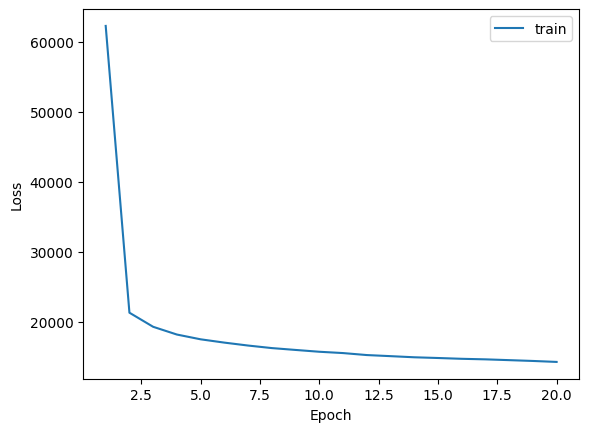
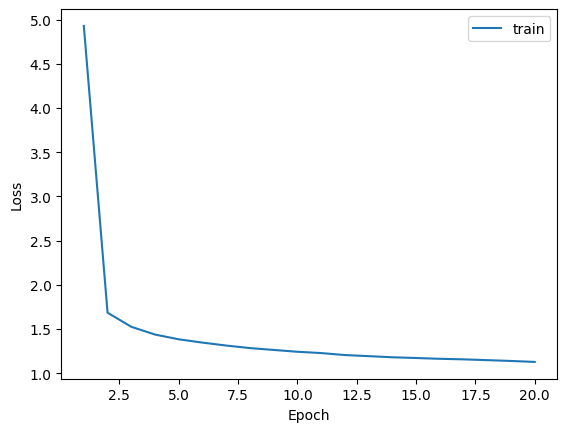
Mean loss on Q1.3
Instead of returning the whole sum, the method returns the average sum of the loss as said by the teacher in piazza

diff --git a/hw1/hw1-q1.py b/hw1/hw1-q1.py
@@ -54,8 +54,6 @@ class Perceptron(LinearModel):
             self.W[y_i, :] += eta * x_i
             self.W[y_hat_i, :] -= eta * x_i
 
-        # raise NotImplementedError # Q1.1 (a)
-
 
 class LogisticRegression(LinearModel):
     def update_weight(self, x_i, y_i, learning_rate=0.001, l2_penalty=0.0, **kwargs):
@@ -81,8 +79,6 @@ class LogisticRegression(LinearModel):
         else:
             self.W = self.W + learning_rate * (y_i_one_hot - label_probabilities).dot(np.expand_dims(x_i, axis = 1).T)
 
-        # raise NotImplementedError # Q1.2 (a,b)
-
 
 class MLP(object):
     def __init__(self, n_classes, n_features, hidden_size):
@@ -95,8 +91,6 @@ class MLP(object):
         self.b1 = np.zeros(self.hidden_size)
         self.W2 = np.random.normal(0.1, 0.1, size=(self.n_classes, self.hidden_size))
         self.b2 = np.zeros(self.n_classes)
-
-        # raise NotImplementedError # Q1.3 (a)
 
     def relu(self, x):
         return np.maximum(0, x)
@@ -120,7 +114,6 @@ class MLP(object):
             predicted_labels.append(y_hat)
 
         return np.array(predicted_labels)
-        # raise NotImplementedError # Q1.3 (a)
 
     def evaluate(self, X, y):
         """
@@ -175,8 +168,7 @@ class MLP(object):
             self.W2 -= learning_rate*grad_W2
             self.b2 -= learning_rate*grad_b2
 
-        return total_loss
-        # raise NotImplementedError # Q1.3 (a)
+        return total_loss/len(X)
 
 
 def plot(epochs, train_accs, val_accs, filename=None):
@@ -187,7 +179,7 @@ def plot(epochs, train_accs, val_accs, filename=None):
     plt.legend()
     if filename:
         plt.savefig(filename, bbox_inches='tight')
-    plt.show()
+    plt.clf()
 
 def plot_loss(epochs, loss, filename=None):
     plt.xlabel('Epoch')
@@ -196,7 +188,7 @@ def plot_loss(epochs, loss, filename=None):
     plt.legend()
     if filename:
         plt.savefig(filename, bbox_inches='tight')
-    plt.show()
+    plt.clf()
 
 
 def plot_w_norm(epochs, w_norms, filename=None):
@@ -206,7 +198,7 @@ def plot_w_norm(epochs, w_norms, filename=None):
     plt.legend()
     if filename:
         plt.savefig(filename, bbox_inches='tight')
-    plt.show()
+    plt.clf()
 
 
 def main():

diff --git a/hw1/hw1-q2.py b/hw1/hw1-q2.py
@@ -280,9 +280,17 @@ def main():
         "Valid Loss": valid_losses,
     }
 
-    plot(epochs, losses, filename=f'{opt.model}-training-loss-{config}.pdf')
+    # plot(epochs, losses, filename=f'{opt.model}-training-loss-{config}.pdf')
+    # accuracy = { "Valid Accuracy": valid_accs }
+    # plot(epochs, accuracy, filename=f'{opt.model}-validation-accuracy-{config}.pdf')
+
+    ########################################
+    # I CHANGED THE PATHS - REVERT TO SUBMIT
+    ########################################
+    path_to_directory = "/home/morais/deep_learning_project"
+    plot(epochs, losses, filename=f'{path_to_directory}/images/Q2-{opt.model}-training-loss-{config}.png')
     accuracy = { "Valid Accuracy": valid_accs }
-    plot(epochs, accuracy, filename=f'{opt.model}-validation-accuracy-{config}.pdf')
+    plot(epochs, accuracy, filename=f'{path_to_directory}/images/Q2-{opt.model}-validation-accuracy-{config}.png')
 
 
 if __name__ == '__main__':
